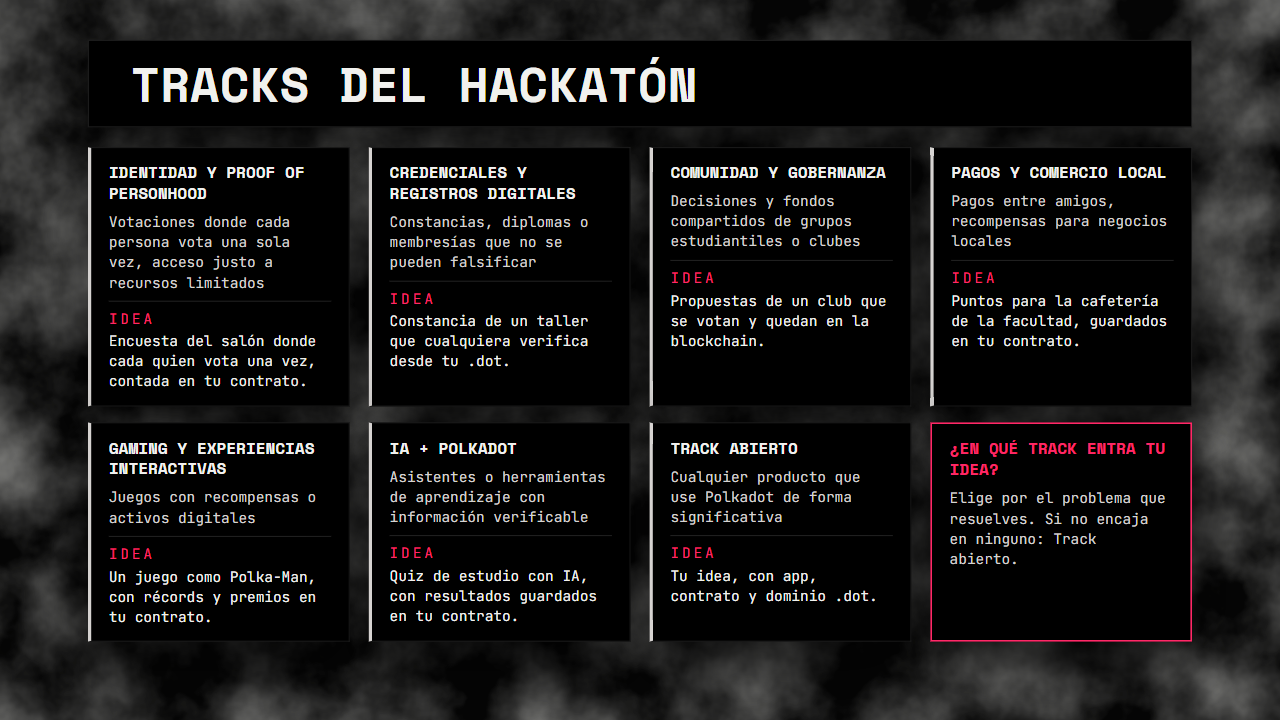
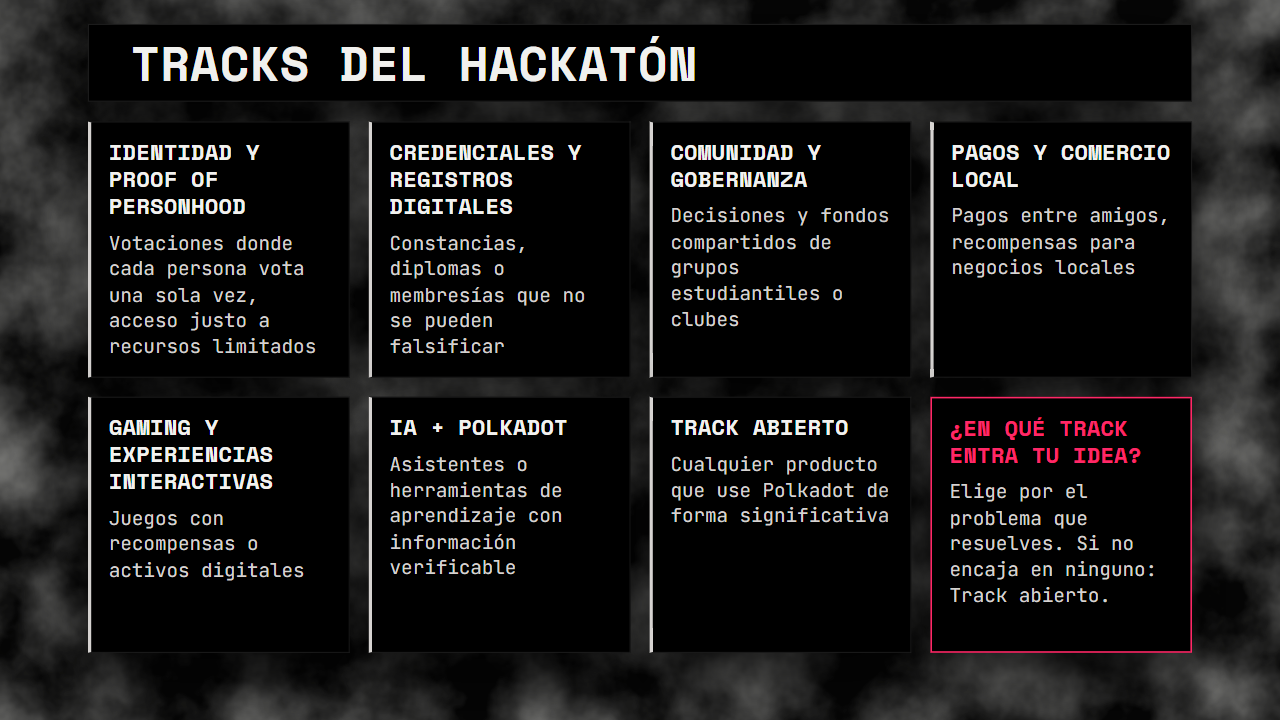
docs(slides): portada de contratos, captura del juego en el teléfono, archivo de fase general y tracks más grandes
Verificación: revisar.mjs en 03 (20/20 bien), 05 (17/17 bien) y 07 (1/1 bien), exit 0 en los tres. Capturas revisadas: 03/1 sin check; 05/1 recorta en la pared inferior del laberinto, sin joystick ni pausa a medias; 05/2, 05/4 y 05/5 completas; 05/10 con texto general y 04 igual; 07/1 sin IDEA, descripciones de 24px y sin desbordes. img/cap7/tracks.png regenerada (1280x720). Enlaces e img/ de los md resuelven y no hay mojibake.

diff --git a/slides/07-hackaton.html b/slides/07-hackaton.html
@@ -14,13 +14,11 @@
 .foot { font-size: 18px; }
 .slide *, .slide *::before, .slide *::after { font-variant-ligatures: none !important; }
 
-.h7-grid { display: grid; grid-template-columns: repeat(4, 1fr); gap: 20px 24px; }
-.h7-card, .h7-ask { background: #000; border: 1px solid #222; padding: 18px 22px; box-shadow: 0 30px 80px rgba(0,0,0,.7); }
+.h7-grid { display: grid; grid-template-columns: repeat(4, 1fr); grid-auto-rows: 1fr; gap: 24px; align-items: stretch; height: 664px; }
+.h7-card, .h7-ask { background: #000; border: 1px solid #222; padding: 20px 22px; box-shadow: 0 30px 80px rgba(0,0,0,.7); }
 .h7-card { border-left: 4px solid #d6d3d1; }
-.h7-card b, .h7-ask b { display: block; font: 700 20px/1.3 var(--display); text-transform: uppercase; }
-.h7-card p, .h7-ask p { font: 18px/1.4 var(--mono); color: #d6d3d1; margin-top: 10px; }
-.h7-card p.h7-idea { color: var(--ink); padding-top: 10px; border-top: 1px solid var(--line); }
-.h7-idea span { display: block; font: 18px var(--mono); color: var(--accent); letter-spacing: .2em; text-transform: uppercase; margin-bottom: 4px; }
+.h7-card b, .h7-ask b { display: block; font: 700 28px/1.2 var(--display); text-transform: uppercase; }
+.h7-card p, .h7-ask p { font: 24px/1.35 var(--mono); color: #d6d3d1; margin-top: 14px; }
 .h7-ask { border: 2px solid var(--accent); }
 .h7-ask b { color: var(--accent); }
 </style>
@@ -30,43 +28,36 @@
 
   <!-- 1 · Tracks del hackatón -->
   <section class="slide" data-title="Tracks del hackatón" style="--bgpos: 55% 35%;">
-    <div class="panel" style="left:110px; top:50px; width:1380px; padding:22px 52px;"><div class="h">Tracks del hackatón</div></div>
+    <div class="panel" style="left:110px; top:30px; width:1380px; padding:16px 52px;"><div class="h">Tracks del hackatón</div></div>
 
-    <div class="item h7-grid" style="left:110px; top:184px; width:1380px;">
+    <div class="item h7-grid" style="left:110px; top:152px; width:1380px;">
       <div class="h7-card">
         <b>Identidad y Proof of Personhood</b>
         <p>Votaciones donde cada persona vota una sola vez, acceso justo a recursos limitados</p>
-        <p class="h7-idea"><span>Idea</span>Encuesta del salón donde cada quien vota una vez, contada en tu contrato.</p>
       </div>
       <div class="h7-card">
         <b>Credenciales y registros digitales</b>
         <p>Constancias, diplomas o membresías que no se pueden falsificar</p>
-        <p class="h7-idea"><span>Idea</span>Constancia de un taller que cualquiera verifica desde tu .dot.</p>
       </div>
       <div class="h7-card">
         <b>Comunidad y gobernanza</b>
         <p>Decisiones y fondos compartidos de grupos estudiantiles o clubes</p>
-        <p class="h7-idea"><span>Idea</span>Propuestas de un club que se votan y quedan en la blockchain.</p>
       </div>
       <div class="h7-card">
         <b>Pagos y comercio local</b>
         <p>Pagos entre amigos, recompensas para negocios locales</p>
-        <p class="h7-idea"><span>Idea</span>Puntos para la cafetería de la facultad, guardados en tu contrato.</p>
       </div>
       <div class="h7-card">
         <b>Gaming y experiencias interactivas</b>
         <p>Juegos con recompensas o activos digitales</p>
-        <p class="h7-idea"><span>Idea</span>Un juego como Polka-Man, con récords y premios en tu contrato.</p>
       </div>
       <div class="h7-card">
         <b>IA + Polkadot</b>
         <p>Asistentes o herramientas de aprendizaje con información verificable</p>
-        <p class="h7-idea"><span>Idea</span>Quiz de estudio con IA, con resultados guardados en tu contrato.</p>
       </div>
       <div class="h7-card">
         <b>Track abierto</b>
         <p>Cualquier producto que use Polkadot de forma significativa</p>
-        <p class="h7-idea"><span>Idea</span>Tu idea, con app, contrato y dominio .dot.</p>
       </div>
       <div class="h7-ask">
         <b>¿En qué track entra tu idea?</b>

diff --git a/slides/05-el-juego.html b/slides/05-el-juego.html
@@ -95,7 +95,7 @@
 .j-part b i { font-style: normal; color: var(--accent); margin-right: 12px; }
 .j-part p { font: 20px/1.45 var(--mono); color: #d6d3d1; margin-top: 10px; }
 .j-part .ex { font: 19px/1.45 var(--mono); color: var(--muted); margin-top: 10px; }
-.j-parts.tall .j-part { min-height: 220px; padding: 30px 34px; }
+.j-parts.tall .j-part { min-height: 220px; padding: 26px 34px; }
 .j-parts.tall .j-part p { font-size: 22px; }
 .j-parts.tall .j-part .ex { font-size: 20px; margin-top: 18px; border: 1px dashed #3a3a37; padding: 10px 14px; }
 .j-parts.mid .j-part { min-height: 200px; padding: 28px 32px; }
@@ -171,7 +171,7 @@
 .j-ctr b { display: block; font: 700 32px var(--display); margin-top: 8px; }
 .j-ctr span { display: block; font: 19px var(--mono); color: #d6d3d1; margin-top: 8px; }
 .j-mini-ph { padding: 36px 12px 18px; border-radius: 34px; }
-.j-mini-ph img { height: 250px; object-fit: cover; object-position: 50% 30%; }
+.j-mini-ph img { height: auto; aspect-ratio: 1170 / 1395; object-fit: cover; object-position: 50% 0; }
 
 /* Ilustración de pad → CID → Resolve */
 .j-pad { display: grid; grid-template-columns: 250px 70px 250px 1fr; align-items: center; }
@@ -228,7 +228,7 @@
     </div>
     <div class="j-link" style="left:1090px; top:612px; width:90px;" aria-hidden="true"></div>
     <div class="item" style="left:1190px; top:450px; width:260px;">
-      <div class="j-phone j-mini-ph"><div class="j-url">tu-juego.dot</div><img src="../img/cap5/polka-man-movil.png" alt="Polka-Man en el celular: el laberinto con Polka-Man rosa y los fantasmas"></div>
+      <div class="j-phone j-mini-ph"><div class="j-url">tu-juego.dot</div><img src="../img/cap5/polka-man-movil.png" alt="Polka-Man en el celular: HUD con puntaje, ronda y vidas, y el laberinto con Polka-Man rosa y los fantasmas"></div>
     </div>
   </section>
 
@@ -394,11 +394,11 @@
   <!-- 10 · Un archivo de fase -->
   <section class="slide grid" data-title="Un archivo de fase">
     <div class="item" style="left:110px; top:70px;"><div class="h">Un archivo de fase</div></div>
-    <div class="item lead j-mut" style="left:110px; top:160px; width:1380px; font-size:22px;">prompts/04-fantasmas.md · las mismas cuatro partes en todas las fases</div>
+    <div class="item lead j-mut" style="left:110px; top:160px; width:1380px; font-size:22px;">Así están hechos los archivos de prompts/ · las mismas cuatro partes en cada fase</div>
     <div class="item j-parts tall" style="left:110px; top:230px; width:1380px;">
-      <div class="j-part"><b><i>01</i>Antes de pedir</b><p>2 a 4 decisiones que te tocan a ti.</p><div class="ex">¿Cuántas vidas? p. ej. 3</div></div>
-      <div class="j-part pink"><b><i>02</i>El prompt</b><p>12 líneas o menos. Sin números: están en tus specs.</p><div class="ex">Lee SPEC.md (y el spec de esta parte)…</div></div>
-      <div class="j-part"><b><i>03</i>Si no sabes</b><p>Opciones concretas con un pro y un contra, sin código.</p><div class="ex">Dame 3 opciones concretas, con números…</div></div>
+      <div class="j-part"><b><i>01</i>Antes de pedir</b><p>Escribe tus decisiones y tu idea inicial.</p><div class="ex">Qué quieres, qué no, y los números que ya sabes.</div></div>
+      <div class="j-part pink"><b><i>02</i>El prompt</b><p>Si el prompt o la idea es demasiado larga, trabaja con tu agente para crear una spec.</p><div class="ex">Cambio chico: un prompt. Cambio grande: un archivo spec.</div></div>
+      <div class="j-part"><b><i>03</i>Si no sabes</b><p>Pide opciones con pros y contras: el modelo puede darte un enfoque que no habías considerado.</p><div class="ex">Dame 3 opciones con un pro y un contra, sin código.</div></div>
       <div class="j-part"><b><i>04</i>Al terminar, revisa</b><p>Pruebas a mano, tests, casos raros y commit.</p><div class="ex">Después dime 3 casos raros que no consideré.</div></div>
     </div>
   </section>

diff --git a/slides/03-smart-contracts.html b/slides/03-smart-contracts.html
@@ -222,7 +222,6 @@
         </g>
         <circle cx="300" cy="250" r="44" fill="#000" stroke="#ff2867" stroke-width="3"/>
         <circle cx="300" cy="250" r="34" stroke="#ff2867" stroke-width="2" stroke-dasharray="4 5"/>
-        <path d="M283 251 L296 264 L318 238" stroke="#ff2867" stroke-width="6"/>
         <path d="M210 290 V330" stroke="#6b6b66" stroke-width="2"/>
       </svg>
       <div class="c-chain" style="margin-left:9px;">

diff --git a/contenido/07-hackaton.md b/contenido/07-hackaton.md
@@ -19,17 +19,17 @@ resuelve y por qué Polkadot hace mejor la solución.
 
 ## 2. Los tracks
 
-![Tracks del hackatón: siete tracks con ejemplos e ideas](../img/cap7/tracks.png)
+![Tracks del hackatón: siete tracks con sus ejemplos](../img/cap7/tracks.png)
 
-| Track | Ejemplos del programa | Una idea con lo del curso |
-| :---- | :---- | :---- |
-| Identidad y Proof of Personhood | Votaciones donde cada persona vota una sola vez, acceso justo a recursos limitados | Encuesta del salón donde cada quien vota una vez, contada en tu contrato. |
-| Credenciales y registros digitales | Constancias, diplomas o membresías que no se pueden falsificar | Constancia de un taller que cualquiera verifica desde tu .dot. |
-| Comunidad y gobernanza | Decisiones y fondos compartidos de grupos estudiantiles o clubes | Propuestas de un club que se votan y quedan en la blockchain. |
-| Pagos y comercio local | Pagos entre amigos, recompensas para negocios locales | Puntos para la cafetería de la facultad, guardados en tu contrato. |
-| Gaming y experiencias interactivas | Juegos con recompensas o activos digitales | Un juego como Polka-Man, con récords y premios en tu contrato. |
-| IA + Polkadot | Asistentes o herramientas de aprendizaje con información verificable | Quiz de estudio con IA, con resultados guardados en tu contrato. |
-| Track abierto | Cualquier producto que use Polkadot de forma significativa | Tu idea, con app, contrato y dominio .dot. |
+| Track | Ejemplos del programa |
+| :---- | :---- |
+| Identidad y Proof of Personhood | Votaciones donde cada persona vota una sola vez, acceso justo a recursos limitados |
+| Credenciales y registros digitales | Constancias, diplomas o membresías que no se pueden falsificar |
+| Comunidad y gobernanza | Decisiones y fondos compartidos de grupos estudiantiles o clubes |
+| Pagos y comercio local | Pagos entre amigos, recompensas para negocios locales |
+| Gaming y experiencias interactivas | Juegos con recompensas o activos digitales |
+| IA + Polkadot | Asistentes o herramientas de aprendizaje con información verificable |
+| Track abierto | Cualquier producto que use Polkadot de forma significativa |
 
 ---
 

diff --git a/contenido/05-el-juego.md b/contenido/05-el-juego.md
@@ -161,10 +161,12 @@ Casi todos los prompts llevan tres frases. Son el hábito que practicas:
 
 Cada archivo de [`prompts/`](../prompts/) tiene cuatro partes:
 
-- **Antes de pedir:** 2 a 4 decisiones que te tocan a ti, con un ejemplo de respuesta.
-- **El prompt:** 12 líneas o menos. Los números del juego no van en el prompt: están en tus specs.
-- **Si no sabes:** un prompt para pedir opciones concretas, con números, cada una con un pro y un
-  contra, sin código.
+- **Antes de pedir:** escribe tus decisiones y tu idea inicial: qué quieres, qué no, y los números
+  que ya sabes.
+- **El prompt:** si el prompt o la idea es demasiado larga, trabaja con tu agente para crear una
+  spec. Los cambios chicos van como prompt; los grandes, en un archivo spec.
+- **Si no sabes:** pide opciones con pros y contras; el modelo puede darte un enfoque que no habías
+  considerado.
 - **Al terminar, revisa:** pruebas a mano, el prompt de tests y el commit.
 
 Si no sabes algo, no lo dejes al azar: pídele opciones. Y después de cada fase, usa los prompts de
